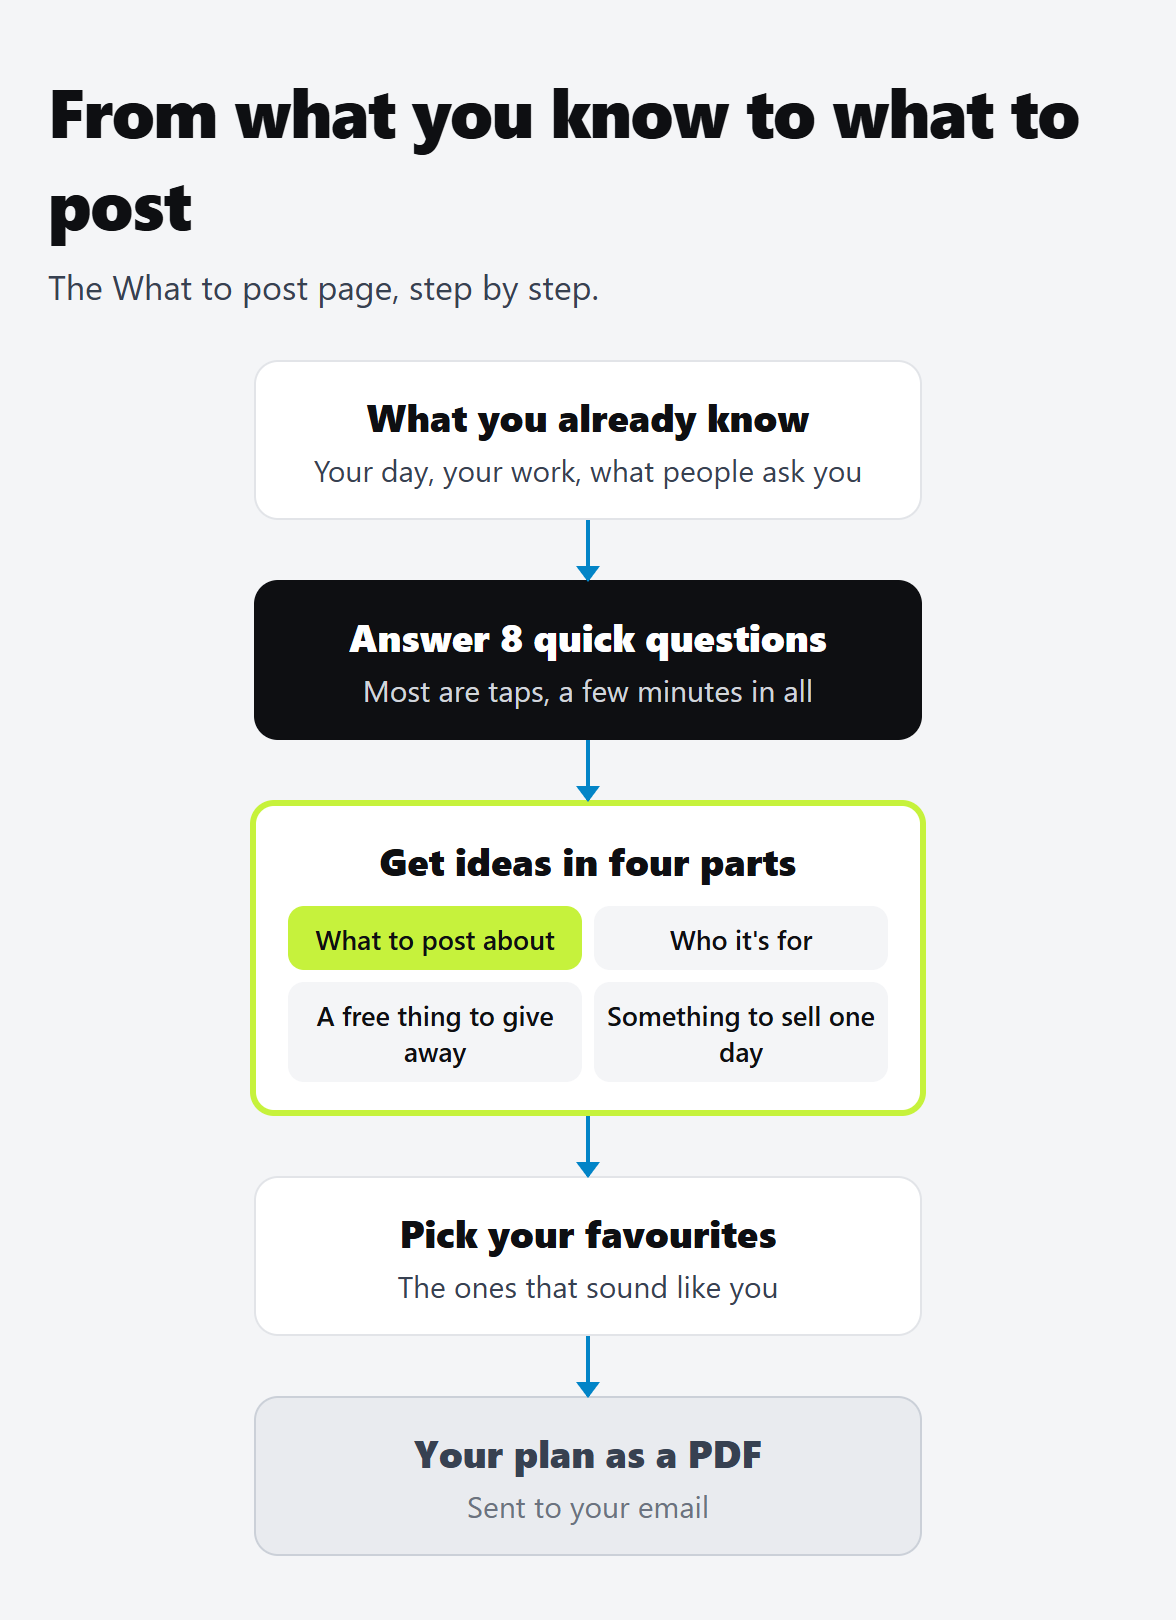
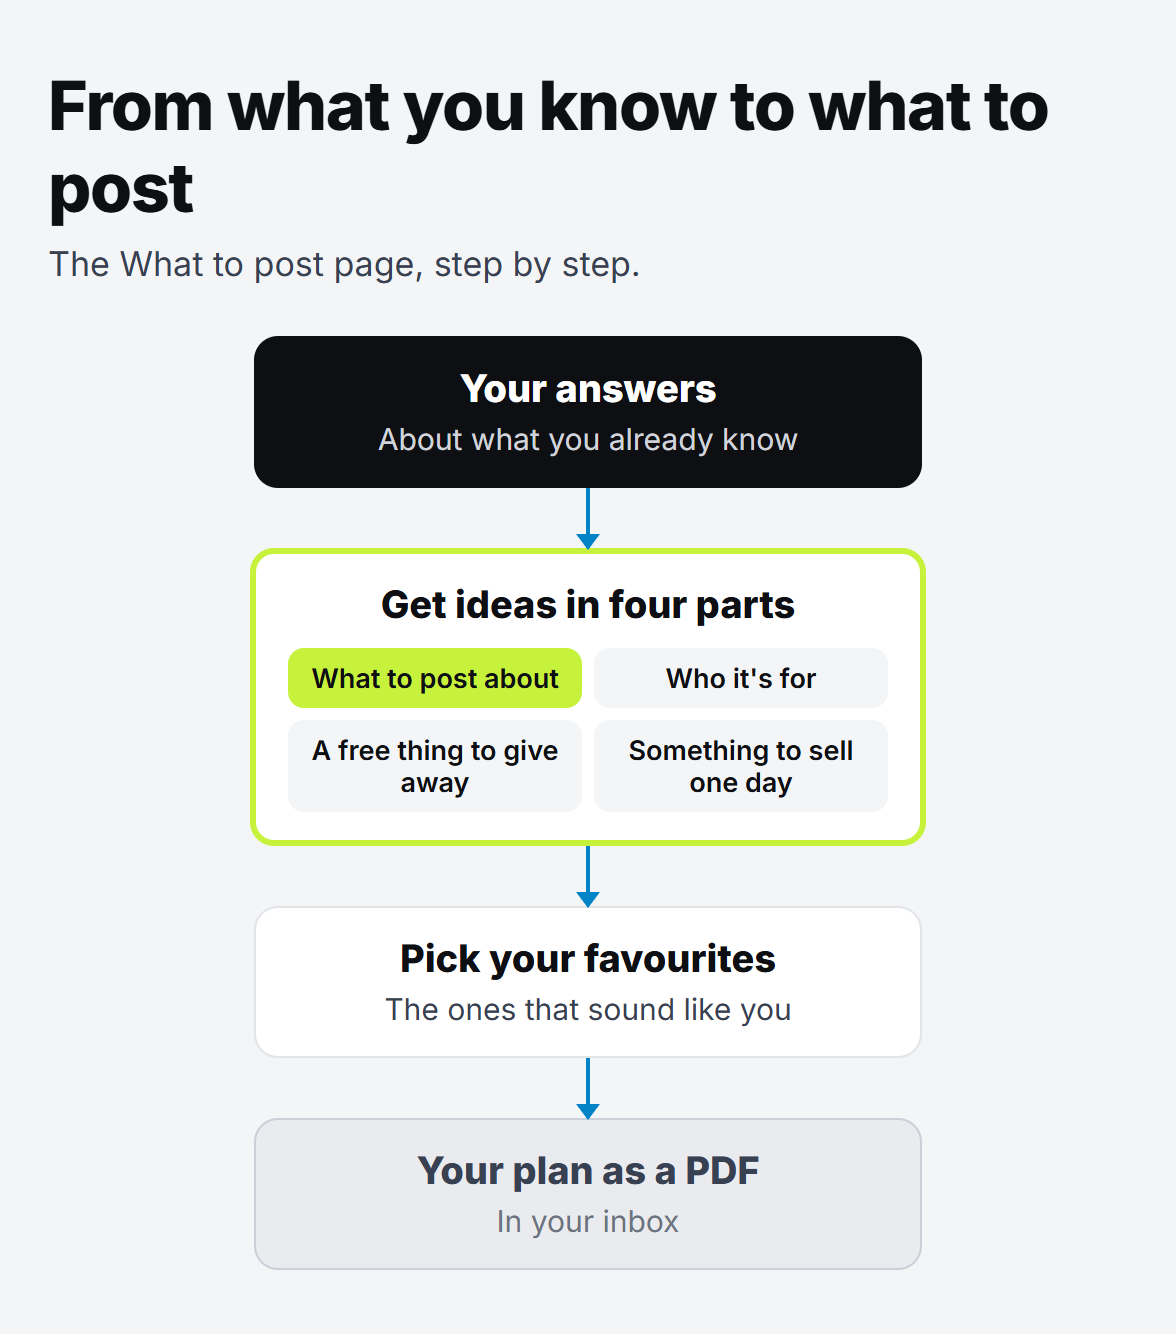
Draft: What to Post on TikTok When You Have No Ideas (Copywriter's words)

Changed region(s): [[0.2143, 0.2459, 0.7959, 0.9528], [0.0306, 0.0307, 0.9184, 0.2151]]

diff --git a/content/posts/what-to-post-on-tiktok-when-you-have-no-ideas.md b/content/posts/what-to-post-on-tiktok-when-you-have-no-ideas.md
@@ -1,0 +1,99 @@
+---
+title: "What to Post on TikTok When You Have No Ideas"
+cardLine: "Your next post is already in your head. Here's how to find it."
+date: "2026-11-12"
+author: "oloye"
+category: "Content"
+tags: ["what to post on tiktok", "tiktok content ideas", "content ideas", "what should i post", "content creator"]
+excerpt: "Don't know what to post on TikTok? Stop scrolling for ideas. Here's how to find posts in what you already know, with five ideas you can film today."
+summary:
+  - "Why scrolling for ideas leaves you with nothing to post."
+  - "Four simple questions that turn what you already know into posts."
+  - "Five post ideas you can film today, with no new skills."
+  - "How to pick one idea and test it this week."
+faq:
+  - question: "What should I post on TikTok if I have no talent or skills?"
+    answer: "Start with what you already know from your day: your work, the things people ask you about, and what you had to learn the hard way. That's enough for your first posts."
+  - question: "How do I find my niche on TikTok?"
+    answer: "Answer a few honest questions about what you know and what people come to you for. Then pick one idea, post about it three times in a week, and see which one people ask questions about."
+  - question: "Should I copy what's trending?"
+    answer: "You can use a trend's format, but the idea works best when it comes from your own life. Copied ideas sound like everyone else's."
+  - question: "Is there a free tool to help me decide what to post?"
+    answer: "Yes. Our free What to post page asks a few quick questions and gives you ideas for what to post about, who it's for, a free thing to give away and something to sell."
+coverImage: "/images/blog/what-to-post-on-tiktok/cover.jpg"
+---
+
+You open TikTok to post something. The camera's ready. Your mind goes blank.
+
+So you scroll for ideas. An hour later, you've watched fifty videos and posted nothing.
+
+If you don't know what to post on TikTok, you're not short of ideas. You're looking for them in the wrong place.
+
+> **In plain words:** the best ideas for your posts don't come from other people's feeds. They come from what you already know.
+
+## Why scrolling for ideas doesn't work
+
+Scrolling feels like research. It isn't. It's the watching trap: you keep watching other people post, waiting for an idea to land, and it never feels like yours.
+
+Even when you find one you like, it belongs to someone else's life. You try to copy it, it feels fake, and you don't post it.
+
+The ideas that work come from your own week. The problem is that you're too close to them to see them.
+
+## What to post on TikTok: start with four questions
+
+Get a pen, or open your notes app. Answer these four questions in a few words each. Don't think too hard.
+
+1. **What do you spend most of your day doing?** Your work, looking after people, a hobby, whatever fills your hours.
+2. **What do people come to you for?** Advice, a fix, a recommendation, someone to talk things through with.
+3. **What did you have to work out the hard way?** Money, a move, your health, an app that nobody explained.
+4. **Who were you five years ago?** Someone a few steps behind you right now is that person.
+
+Every answer is a post. Some are a whole series.
+
+> **Good to know:** these are four of the eight questions on our free What to post page. We built it for exactly this problem.
+
+A friend of mine wanted to start making videos. He was stressed and didn't know where to begin. So I asked him a few questions like these. What do you actually want to make? Who for? A few answers later, he had his topic: kids' stories and nursery rhymes. He didn't need to learn coding. He needed someone to ask the right questions.
+
+## Five TikTok content ideas you can film today
+
+Take your answers and try one of these. Each one works for almost any topic.
+
+| Idea | What you say | Comes from |
+| :--- | :--- | :--- |
+| The question you always get | "People always ask me..." then answer it | Question 2 |
+| The mistake you made | "I got this wrong for years..." then what you do now | Question 3 |
+| What I do instead | "Most people do X. What I do instead is Y." | Questions 1 and 3 |
+| Five years ago | "If you're where I was five years ago, start here." | Question 4 |
+| A normal day | Show one real part of your day, and say one thing you learned | Question 1 |
+
+None of these need a trend, a ring light or a script. They need one honest sentence from your own life.
+
+> **Try this:** pick the idea that made you think "oh, I could say that". Film it on your phone today, in one take. Rough is fine.
+
+## How to pick one idea and test it
+
+You don't need a perfect plan. You need one idea and a week.
+
+1. **Pick the idea that feels most like you.** Not the cleverest one. The one you could talk about without notes.
+2. **Post about it three times this week.** The same idea from three angles: a question, a mistake, a tip.
+3. **Watch what people ask.** The comments tell you what they want next. That's your next post.
+
+TikTok's own [Creator Academy](https://www.tiktok.com/creator-academy/en/) has the basics on filming and posting, and the [help page on making videos](https://support.tiktok.com/en/using-tiktok/creating-videos) walks you through the buttons. Use them for the how. Keep the what for your own life.
+
+![A simple flow in four boxes: your answers about what you know, then ideas in four parts, then pick your favourites, then a plan as a PDF in your inbox.](/images/blog/what-to-post-on-tiktok/what-to-post-flow.png)
+
+## What comes after the first posts
+
+Posting gets people's attention. But attention on TikTok comes and goes, and the app decides who sees your next post.
+
+So it helps to think one step ahead. A small free thing to give away, and one day something to sell, gives that attention somewhere to go. We wrote about why in [10k followers mean nothing without an email list](/blog/why-10k-followers-mean-nothing-without-an-email-list). If you want the cheapest way to start, there's [the zero-dollar owned pipeline for creators](/blog/the-zero-dollar-owned-pipeline-for-creators), and [how to get every sign-up into one list](/blog/make-com-automation-sign-ups-one-list) once you have a few.
+
+You don't need any of that today, though. Today you need one post.
+
+## Get your ideas in a few minutes
+
+If the four questions above still leave you stuck, let us do the asking. Our free [What to post](/what-to-post?from=blog) page asks a few quick questions about what you already know. Then it gives you ideas in four parts: what to post about, who it's for, a free thing to give away and something to sell.
+
+Pick your favourite in each part, and we'll email you a simple plan as a PDF. It's free, and the ideas are yours to try.
+
+Your next post is already in your head. Go and find it.
